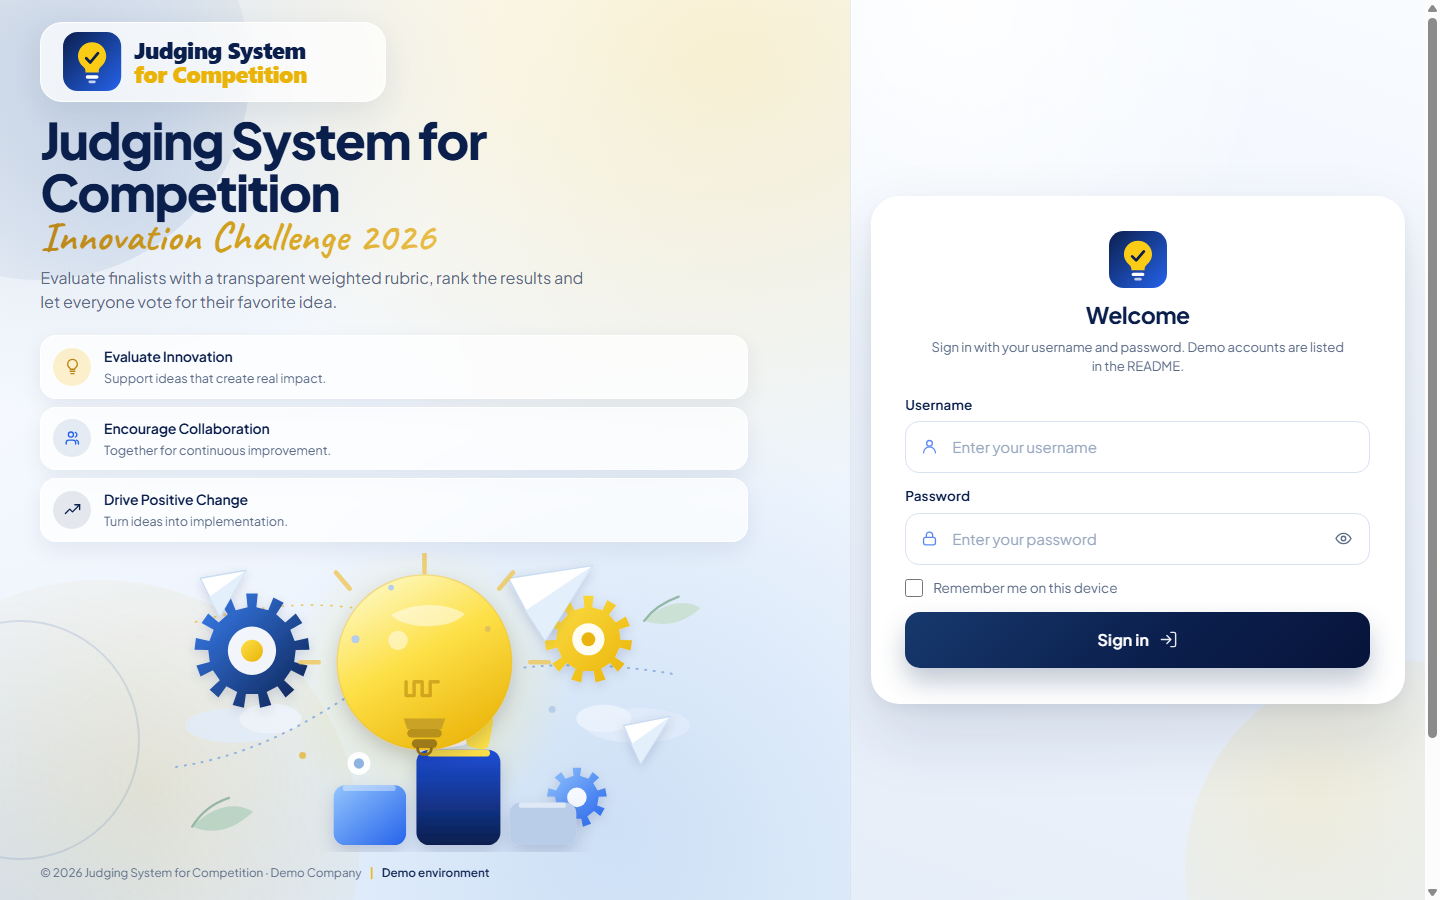
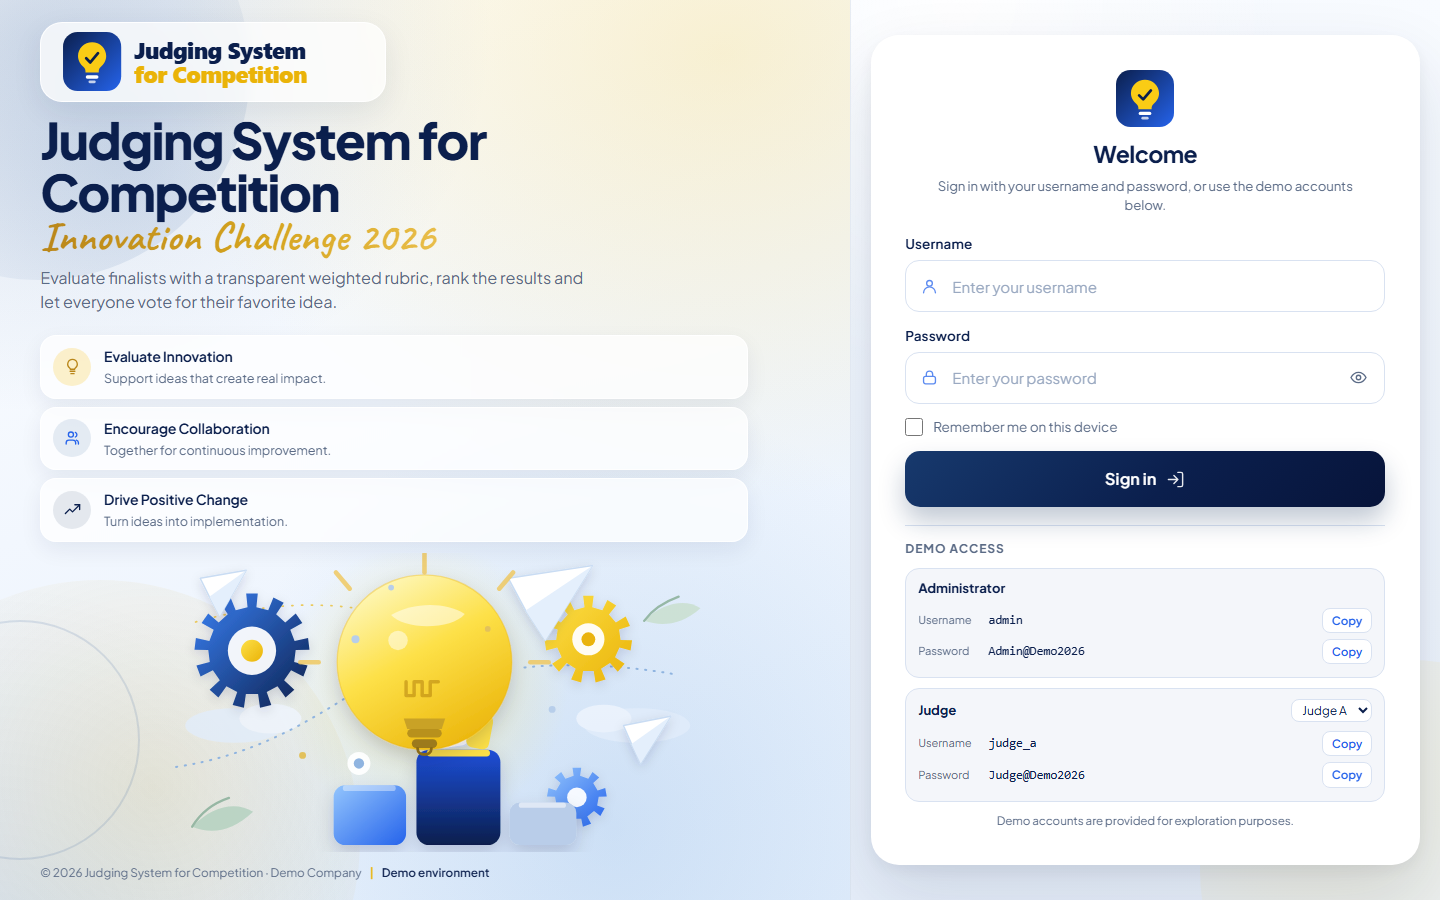
Improve demo login experience
Add a compact "Demo Access" section under the Sign in button listing the
seeded demo accounts (Administrator, Judge A-E) with Copy buttons for the
username and password. Credentials come from config/judging.php, which reads
the same seeder constants/env overrides, so the UI cannot drift from the
seeded accounts. The inputs stay empty; authentication logic, authorization
and the database schema are unchanged. The section can be hidden with
DEMO_ACCESS=false. README documents the accounts and role access; adds
DemoAccessTest.

Changed region(s): [[0.5938, 0.0, 1.0, 0.9956], [0.625, 0.2489, 0.6875, 0.28]]

diff --git a/resources/css/login.css b/resources/css/login.css
@@ -817,3 +817,120 @@
         transition-duration: 0.001ms !important;
     }
 }
+
+/* =============================================================
+   Demo access (compact credentials helper under the form)
+   ============================================================= */
+.jc-login .jc-demo {
+    margin-top: 18px;
+    padding-top: 14px;
+    border-top: 1px solid var(--jc-border);
+}
+
+.jc-login .jc-demo__title {
+    margin: 0 0 10px;
+    font-size: 12px;
+    font-weight: 700;
+    letter-spacing: 0.08em;
+    text-transform: uppercase;
+    color: var(--jc-muted);
+}
+
+.jc-login .jc-demo__grid {
+    display: grid;
+    grid-template-columns: 1fr;
+    gap: 10px;
+}
+
+.jc-login .jc-demo__card {
+    min-width: 0;
+    padding: 10px 12px;
+    background: var(--jc-pale);
+    border: 1px solid var(--jc-border);
+    border-radius: 14px;
+}
+
+.jc-login .jc-demo__roleline {
+    display: flex;
+    align-items: center;
+    justify-content: space-between;
+    gap: 8px;
+}
+
+.jc-login .jc-demo__role {
+    margin: 0 0 6px;
+    font-size: 13px;
+    font-weight: 700;
+    color: var(--jc-navy);
+}
+
+.jc-login .jc-demo__roleline .jc-demo__role {
+    margin-bottom: 6px;
+}
+
+.jc-login .jc-demo__select {
+    margin: 0 0 6px;
+    padding: 2px 6px;
+    font: inherit;
+    font-size: 12px;
+    color: var(--jc-navy);
+    background: var(--jc-white);
+    border: 1px solid var(--jc-border);
+    border-radius: 8px;
+}
+
+.jc-login .jc-demo__row {
+    display: grid;
+    grid-template-columns: auto minmax(0, 1fr) auto;
+    align-items: center;
+    gap: 6px;
+    padding: 3px 0;
+}
+
+.jc-login .jc-demo__label {
+    font-size: 11px;
+    color: var(--jc-muted);
+    min-width: 64px;
+}
+
+.jc-login .jc-demo__value {
+    min-width: 0;
+    overflow: hidden;
+    text-overflow: ellipsis;
+    white-space: nowrap;
+    font-family: ui-monospace, SFMono-Regular, Menlo, Consolas, monospace;
+    font-size: 12.5px;
+    color: var(--jc-navy);
+}
+
+.jc-login .jc-demo__copy {
+    padding: 3px 9px;
+    font: inherit;
+    font-size: 11.5px;
+    font-weight: 600;
+    color: var(--jc-blue);
+    background: var(--jc-white);
+    border: 1px solid var(--jc-border);
+    border-radius: 8px;
+    cursor: pointer;
+    transition: background-color 0.15s ease, color 0.15s ease;
+}
+
+.jc-login .jc-demo__copy:hover,
+.jc-login .jc-demo__copy:focus-visible {
+    background: var(--jc-light-blue);
+    outline: none;
+}
+
+.jc-login .jc-demo__copy.is-copied {
+    color: #047857;
+    border-color: #a7f3d0;
+    background: #ecfdf5;
+}
+
+.jc-login .jc-demo__note {
+    margin: 10px 0 0;
+    font-size: 11.5px;
+    color: var(--jc-muted);
+    text-align: center;
+}

diff --git a/resources/js/login.js b/resources/js/login.js
@@ -32,6 +32,50 @@ document.addEventListener('DOMContentLoaded', () => {
         });
     }
 
+    /* ---------- demo access: copy buttons and judge picker (no dependencies) ---------- */
+    const copyText = async (text) => {
+        try {
+            await navigator.clipboard.writeText(text);
+            return true;
+        } catch (error) {
+            const area = document.createElement('textarea');
+            area.value = text;
+            area.setAttribute('readonly', '');
+            area.style.position = 'fixed';
+            area.style.opacity = '0';
+            document.body.appendChild(area);
+            area.select();
+            let ok = false;
+            try { ok = document.execCommand('copy'); } catch (e) { ok = false; }
+            document.body.removeChild(area);
+            return ok;
+        }
+    };
+
+    document.querySelectorAll('[data-copy-target]').forEach((button) => {
+        button.addEventListener('click', async () => {
+            const source = document.getElementById(button.dataset.copyTarget);
+            if (! source) return;
+            const ok = await copyText(source.textContent.trim());
+            const original = button.dataset.label || button.textContent;
+            button.dataset.label = original;
+            button.textContent = ok ? 'Copied' : 'Press Ctrl+C';
+            button.classList.toggle('is-copied', ok);
+            window.setTimeout(() => {
+                button.textContent = original;
+                button.classList.remove('is-copied');
+            }, 1500);
+        });
+    });
+
+    const judgeSelect = document.getElementById('demoJudgeSelect');
+    const judgeUser = document.getElementById('demoJudgeUser');
+    if (judgeSelect && judgeUser) {
+        judgeSelect.addEventListener('change', () => {
+            judgeUser.textContent = judgeSelect.value;
+        });
+    }
+
     /* ---------- loading state on submit ---------- */
     const submitButton = document.getElementById('signInButton');
 

diff --git a/resources/views/auth/login.blade.php b/resources/views/auth/login.blade.php
@@ -99,7 +99,7 @@
                 </div>
 
                 <h2 class="jc-card__title">Welcome</h2>
-                <p class="jc-card__subtitle">Sign in with your username and password. Demo accounts are listed in the README.</p>
+                <p class="jc-card__subtitle">Sign in with your username and password, or use the demo accounts below.</p>
 
                 @if (session('status'))
                     <div class="jc-alert jc-alert--ok" role="status">{{ session('status') }}</div>
@@ -182,6 +182,58 @@
                         </svg>
                     </button>
                 </form>
+
+                @if (config('judging.demo_access'))
+                    @php
+                        $demoAdmin = config('judging.demo_accounts.admin');
+                        $demoJudges = config('judging.demo_accounts.judges');
+                        $firstJudge = $demoJudges['accounts'][0] ?? null;
+                    @endphp
+                    <section class="jc-demo" aria-labelledby="demoTitle">
+                        <h3 class="jc-demo__title" id="demoTitle">Demo Access</h3>
+
+                        <div class="jc-demo__grid">
+                            <div class="jc-demo__card">
+                                <p class="jc-demo__role">Administrator</p>
+                                <div class="jc-demo__row">
+                                    <span class="jc-demo__label">Username</span>
+                                    <code class="jc-demo__value" id="demoAdminUser">{{ $demoAdmin['username'] }}</code>
+                                    <button type="button" class="jc-demo__copy" data-copy-target="demoAdminUser" aria-label="Copy administrator username">Copy</button>
+                                </div>
+                                <div class="jc-demo__row">
+                                    <span class="jc-demo__label">Password</span>
+                                    <code class="jc-demo__value" id="demoAdminPass">{{ $demoAdmin['password'] }}</code>
+                                    <button type="button" class="jc-demo__copy" data-copy-target="demoAdminPass" aria-label="Copy administrator password">Copy</button>
+                                </div>
+                            </div>
+
+                            @if ($firstJudge)
+                                <div class="jc-demo__card">
+                                    <div class="jc-demo__roleline">
+                                        <p class="jc-demo__role">Judge</p>
+                                        <select class="jc-demo__select" id="demoJudgeSelect" aria-label="Choose a demo judge account">
+                                            @foreach ($demoJudges['accounts'] as $judge)
+                                                <option value="{{ $judge['username'] }}">{{ $judge['name'] }}</option>
+                                            @endforeach
+                                        </select>
+                                    </div>
+                                    <div class="jc-demo__row">
+                                        <span class="jc-demo__label">Username</span>
+                                        <code class="jc-demo__value" id="demoJudgeUser">{{ $firstJudge['username'] }}</code>
+                                        <button type="button" class="jc-demo__copy" data-copy-target="demoJudgeUser" aria-label="Copy judge username">Copy</button>
+                                    </div>
+                                    <div class="jc-demo__row">
+                                        <span class="jc-demo__label">Password</span>
+                                        <code class="jc-demo__value" id="demoJudgePass">{{ $demoJudges['password'] }}</code>
+                                        <button type="button" class="jc-demo__copy" data-copy-target="demoJudgePass" aria-label="Copy judge password">Copy</button>
+                                    </div>
+                                </div>
+                            @endif
+                        </div>
+
+                        <p class="jc-demo__note">Demo accounts are provided for exploration purposes.</p>
+                    </section>
+                @endif
             </div>
         </section>
     </div>

diff --git a/tests/Feature/DemoAccessTest.php b/tests/Feature/DemoAccessTest.php
@@ -1,0 +1,73 @@
+<?php
+
+namespace Tests\Feature;
+
+use Database\Seeders\AdminSeeder;
+use Database\Seeders\JudgeSeeder;
+use Illuminate\Foundation\Testing\RefreshDatabase;
+use Tests\TestCase;
+
+class DemoAccessTest extends TestCase
+{
+    use RefreshDatabase;
+
+    private function seedAccounts(): void
+    {
+        $this->seed([AdminSeeder::class, JudgeSeeder::class]);
+    }
+
+    public function test_login_page_shows_demo_access_with_empty_fields(): void
+    {
+        $response = $this->get('/login');
+
+        $response->assertOk()
+            ->assertSee('Demo Access')
+            ->assertSee('Administrator')
+            ->assertSee('Demo accounts are provided for exploration purposes.')
+            ->assertSee('data-copy-target="demoAdminUser"', false)
+            ->assertSee('data-copy-target="demoAdminPass"', false)
+            ->assertSee('data-copy-target="demoJudgeUser"', false)
+            ->assertSee('data-copy-target="demoJudgePass"', false);
+
+        // No prefilled credentials in the inputs.
+        $html = $response->getContent();
+        $this->assertMatchesRegularExpression('/id="username"[^>]*value=""/', $html);
+        $this->assertDoesNotMatchRegularExpression('/id="password"[^>]*value=/', $html);
+    }
+
+    public function test_displayed_admin_credentials_log_in_and_keep_admin_permissions(): void
+    {
+        $this->seedAccounts();
+        $admin = config('judging.demo_accounts.admin');
+
+        $this->get('/login')->assertSee($admin['username'])->assertSee($admin['password']);
+
+        $this->post('/login', ['username' => $admin['username'], 'password' => $admin['password']])
+            ->assertRedirect();
+        $this->get('/admin')->assertOk();
+    }
+
+    public function test_displayed_judge_credentials_log_in_and_stay_blocked_from_admin(): void
+    {
+        $this->seedAccounts();
+        $judges = config('judging.demo_accounts.judges');
+
+        foreach ($judges['accounts'] as $judge) {
+            $this->get('/login')->assertSee($judge['username']);
+        }
+        $this->get('/login')->assertSee($judges['password']);
+
+        $first = $judges['accounts'][0];
+        $this->post('/login', ['username' => $first['username'], 'password' => $judges['password']])
+            ->assertRedirect();
+        $this->get('/judge')->assertOk();
+        $this->get('/admin')->assertForbidden();
+    }
+
+    public function test_demo_access_can_be_switched_off(): void
+    {
+        config(['judging.demo_access' => false]);
+
+        $this->get('/login')->assertOk()->assertDontSee('Demo Access');
+    }
+}

diff --git a/config/judging.php b/config/judging.php
@@ -35,4 +35,28 @@ return [
 
     'ranking_method' => 'competition',
 
+    /*
+    |--------------------------------------------------------------------------
+    | Demo access (login page)
+    |--------------------------------------------------------------------------
+    |
+    | When enabled, the login page lists the seeded DEMO accounts so visitors
+    | can explore the app. The values mirror what the seeders create (same
+    | env overrides and defaults). Set DEMO_ACCESS=false for any non-demo use.
+    |
+    */
+
+    'demo_access' => (bool) env('DEMO_ACCESS', true),
+
+    'demo_accounts' => [
+        'admin' => [
+            'username' => env('APP_ADMIN_USERNAME', 'admin'),
+            'password' => env('APP_ADMIN_PASSWORD') ?: \Database\Seeders\AdminSeeder::DEFAULT_PASSWORD,
+        ],
+        'judges' => [
+            'password' => env('JUDGING_JUDGE_PASSWORD') ?: \Database\Seeders\JudgeSeeder::DEFAULT_PASSWORD,
+            'accounts' => \Database\Seeders\JudgeSeeder::JUDGES,
+        ],
+    ],
+
 ];

diff --git a/README.md b/README.md
@@ -77,16 +77,21 @@ Reset to a pristine demo at any time: `php artisan migrate:fresh --seed`.
 
 ## Demo accounts (demo-only, fictional)
 
-| Role | Username | Password |
-|---|---|---|
-| Administrator | `admin` | `Admin@Demo2026` |
-| Judges A–E | `judge_a` … `judge_e` | `Judge@Demo2026` |
+The login page has a **Demo Access** section (with Copy buttons) that lists these accounts; the input fields themselves stay empty. Set `DEMO_ACCESS=false` in `.env` to hide the section.
+
+| Role | Username | Password | What this role can access |
+|---|---|---|---|
+| Administrator | `admin` | `Admin@Demo2026` | Admin area (`/admin`): dashboard, finalists, presentations, rubric, judges, all evaluations, results & release, voting administration (period, codes, finalize, CSV export), settings. |
+| Judge | `judge_a`, `judge_b`, `judge_c`, `judge_d`, `judge_e` (same password for all) | `Judge@Demo2026` | Judge area (`/judge`): own dashboard and evaluations only — score, autosave, submit and correct their own evaluations while judging is open. No access to `/admin` (HTTP 403). |
+
+The public Favorite Idea voting pages (`/voting`) need no account, only a voting code.
 
 Public voting codes to try: **10061, 10062, 10063, 10064, 10065** (unused). Codes 10001–10060 are already used by seeded ballots.
 
 Seeded data: 2 categories, 12 criteria, 15 finalists (Participant 001–015, Departments A–D), 73 evaluations by 5 judges (submitted and in-progress), 65 voting codes and 60 ballots. Judge E deliberately has unfinished work to demonstrate status tracking.
 
-> The admin password defaults to the documented value when `APP_ADMIN_PASSWORD` is empty in `.env`. > These credentials are public placeholders. Never deploy this demo to a public host without changing them.
+> The admin password defaults to the documented value when `APP_ADMIN_PASSWORD` is empty in `.env`.
+> These credentials are public, demo-only placeholders. Never deploy this demo to a public host without changing them and setting `DEMO_ACCESS=false`.
 
 ## Tests
 
